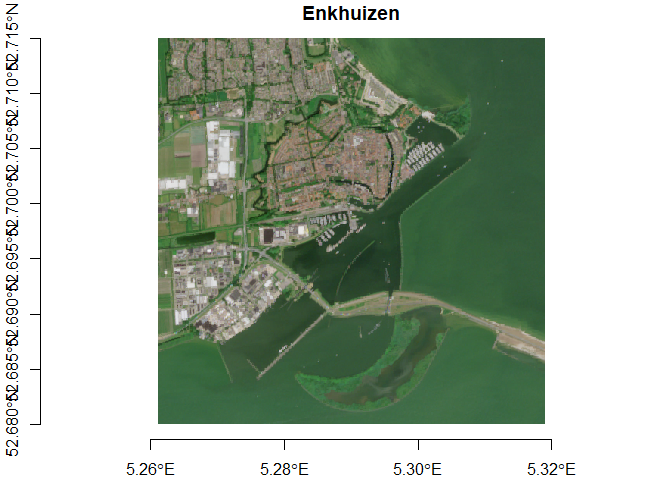
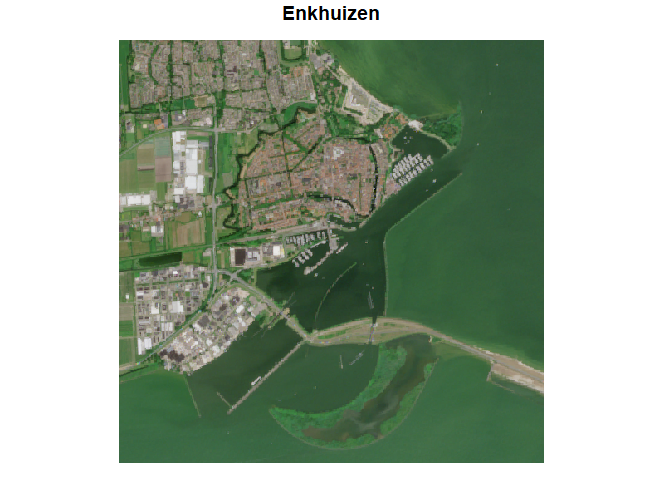
completed documentation

diff --git a/README.md b/README.md
@@ -155,7 +155,7 @@ if (dse_has_client_info()) {
   dse_sh_process(input, output, evalscript, fl)
 
   enkhuizen <- read_stars(fl) |> suppressWarnings()
-  plot(enkhuizen, rgb = 1:3, axes = TRUE, main = "Enkhuizen")
+  plot(enkhuizen, rgb = 1:3, main = "Enkhuizen")
 }
 ```
 
